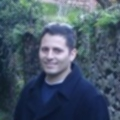
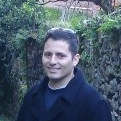
*** empty log message ***

diff --git a/contact.php b/contact.php
@@ -23,7 +23,7 @@
 <td width="33%" height="200" align="center" valign="bottom"><img border="0" src="images/team/RyanBrooks.jpg"/><br/><a href="http://www.eclipsecon.org/2008/index.php?page=presenters/#Ryan_Brooks">Ryan Brooks</a><br/>Boeing<br>OSEE Project Lead<br/>Framework, Define, ATS, Test</td>
 <td width="33%" height="200" align="center" valign="bottom"><img border="0" src="images/team/DonDunne.jpg"/><br/><a href="http://www.eclipsecon.org/2008/index.php?page=presenters/#Donald_G._Dunne">Don Dunne</a><br/>Boeing<br>OSEE Project Lead<br/>Framework, ATS</td>
 </tr><tr>
-<td width="33%" height="200" align="center" valign="bottom"><img border="0" src="images/team/eclipseface.png"/><br/>Robert Escobar<br/>Boeing<br/>Framework, Define</td>
+<td width="33%" height="200" align="center" valign="bottom"><img border="0" src="images/team/RobertoEscobar.jpg"/><br/>Robert Escobar<br/>Boeing<br/>Framework, Define</td>
 <td width="33%" height="200" align="center" valign="bottom"><img border="0" src="images/team/AndyFinkbeiner.jpg"/><br/><a href="http://www.eclipsecon.org/2008/index.php?page=presenters/#Andrew_Finkbeiner">Andrew Finkbeiner</a><br/>Boeing<br/>Framework, Test</td>
 <td width="33%" height="200" align="center" valign="bottom"><img border="0" src="images/team/eclipseface.png"/><br/>Michael Masterson<br/>Boeing<br/>Framework, Test</td>
 </tr><tr>
